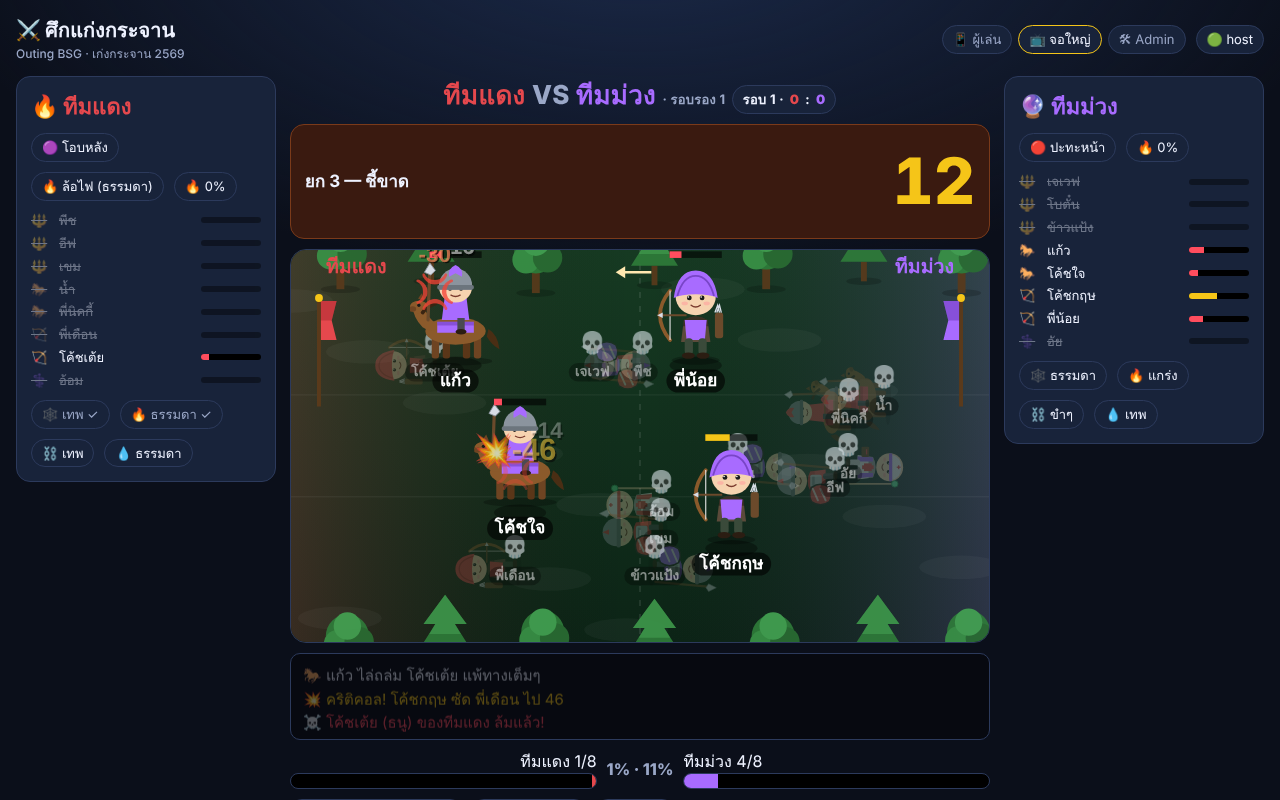
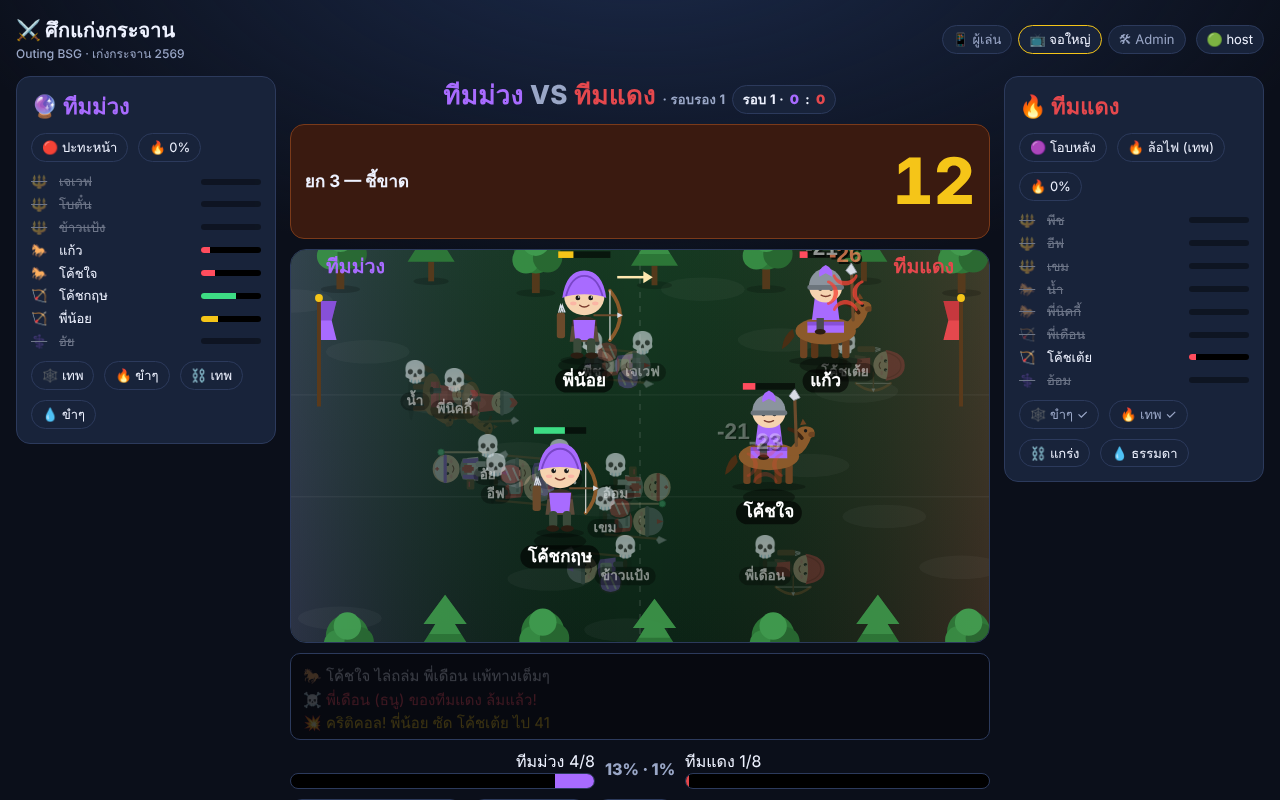
รอบตัดสิน: ไอเทมเทพพิเศษทีมละ 1 ชิ้น
Claude-Session: https://claude.ai/code/session_01JbJWCdY4QKd2woKbG6bJFF

diff --git a/js/app.js b/js/app.js
@@ -141,11 +141,12 @@
     const S = settings(); round = round || 1; wins = wins || { a: 0, b: 0 };
     const seed = 'm' + id + '-r' + round + '-' + Math.floor(Math.random() * 1e9).toString(36);
     const upd = {}; upd[a + '/plan'] = 'front'; upd[a + '/item'] = null; upd[b + '/plan'] = 'front'; upd[b + '/item'] = null;
-    if (round === 1) { upd[a + '/itemsUsed'] = null; upd[b + '/itemsUsed'] = null; }
+    if (round === 1) { upd[a + '/itemsUsed'] = null; upd[b + '/itemsUsed'] = null; upd[a + '/bonusUsed'] = null; upd[b + '/bonusUsed'] = null; }
     await R('teams').update(upd);
     await R('match').set({ id, a, b, round, wins, stage: 'plan', stageStart: now(), stageEnds: now() + S.tPlan * 1000, seed, waveInputs: null, taps: null, result: null });
     await R('game').update({ phase: 'battle' });
   }
+  function isDecider(m) { const S = settings(); return !!m && (m.round || 1) >= 2 * S.roundsToWin - 1; }
   function matchDecided(m) { const S = settings(); return m && m.wins && (m.wins.a >= S.roundsToWin || m.wins.b >= S.roundsToWin); }
   async function nextRound() {
     const m = st.match; if (!m || m.stage !== 'result' || matchDecided(m)) return;
@@ -166,7 +167,9 @@
         const team = teamOfSide(side); const snap = snapshotSide(team);
         const t = st.teams[team] || {};
         let item = null;
-        if (t.item && t.item.id) {
+        if (t.item && t.item.id && t.item.bonus) {
+          if (isDecider(m) && !t.bonusUsed && D.ITEMS[t.item.id]) { item = { id: t.item.id, tier: 0 }; upd['__teams/' + team + '/bonusUsed'] = true; }
+        } else if (t.item && t.item.id) {
           const its = teamItems(team).find((x) => x.id === t.item.id);
           if (its && !its.used && !its.locked) { item = { id: its.id, tier: its.tier }; upd['__teams/' + team + '/itemsUsed/' + its.id] = true; }
         }
@@ -283,7 +286,7 @@
     return h;
   }
   function itemsHtml(team, interactive) {
-    const sel = st.teams[team] && st.teams[team].item && st.teams[team].item.id;
+    const sel = st.teams[team] && st.teams[team].item && !st.teams[team].item.bonus && st.teams[team].item.id;
     return `<div class="item-grid">` + teamItems(team).map((it) => {
       const I = D.ITEMS[it.id]; const tierTxt = it.locked ? 'รอผลกิจกรรม' : `ระดับ${D.TIER_NAMES[it.tier]} · ${I.tiers[it.tier]}${I.unit}${I.counts ? ' ' + I.counts[it.tier] + ' ตัว' : ''}${I.revive && it.tier === 0 ? ' + ชุบชีวิต 1 คน' : ''}`;
       const cls = `item-card tier-${it.tier} ${it.used ? 'used' : ''} ${it.locked ? 'locked' : ''} ${sel === it.id ? 'sel' : ''}`;
@@ -302,7 +305,7 @@
       <h3>อาชีพแพ้ทางเป็นวงกลม</h3><div class="counter-table"><div>🐎 ม้า<br><b>ชนะ</b> ธนู 🏹</div><div>🔱 หอก<br><b>ชนะ</b> ม้า 🐎</div><div>🏹 ธนู<br><b>ชนะ</b> หอก 🔱</div></div>
       <div class="small muted">ตีคู่ที่ชนะทาง ×${S.counterWin} / ตีคู่ที่แพ้ทาง ×${S.counterLose} · ⚕ หมอไม่โจมตี ฮีลเพื่อนใกล้ๆ ทุก ${S.healEvery} วิ (ทีมละไม่เกิน ${S.medicMax}) · ม้าที่วิ่งมาไกลพุ่งชนครั้งแรกแรง ×${S.cavCharge}</div>
       <h3>ตำแหน่งมีผล</h3><div class="small">ทั้ง 8 คนออกพร้อมกันตั้งแต่ยกแรก มี 9 ช่อง: <b>แถวหน้า</b> ปะทะก่อน · <b>แถวหลัง</b> ปลอดภัยกว่า (เหมาะกับธนู/หมอ) แต่ม้าศัตรูที่เลือก "โอบหลัง" จะพุ่งมาหา · เลนบน/กลาง/ล่าง: หอกตีคนที่ใกล้ในเลนตัวเองก่อน · ยก 2 ดาเมจ ×${S.waveMult[1]} ยก 3 ×${S.waveMult[2]}</div>
-      <h3>พักยก (${S.tPause} วิ) ทุกคนที่รอดกลับเข้าตำแหน่ง เลือดเท่าเดิม ทำได้ 4 อย่าง</h3><ol><li>จัดตำแหน่งใหม่ <b>ทั้งทัพ</b> (คนที่ล้มแล้วไม่ฟื้น) เช่น เอาหอกไปดักเลนที่ม้าเขามา</li><li>กัปตันเลือก <b>แผนเข้าตี</b>: ปะทะหน้า / เข้าด้านข้าง / โอบหลัง</li><li>กัปตันเลือก <b>ไอเทม</b> 1 ชิ้น (ใช้ได้ทุกยกรวมถึงก่อนยก 1 · 4 ชิ้น แต่ละชิ้นใช้ได้ครั้งเดียวตลอดคู่ ทีมที่เก็บไว้ถึงรอบตัดสินได้เปรียบ)</li><li><b>ทุกคนรัวกด</b> เติมขวัญกำลังใจ → ยกถัดไป <b>ฟื้นเลือดทุกคนสูงสุด +${Math.round((S.moraleHeal || 0) * 100)}%</b> และตีแรงขึ้นสูงสุด +${Math.round(S.moraleMax * 100)}% (กดครบ ${S.tapsPerPersonFull} ครั้ง/คน = เต็มหลอด)</li></ol>
+      <h3>พักยก (${S.tPause} วิ) ทุกคนที่รอดกลับเข้าตำแหน่ง เลือดเท่าเดิม ทำได้ 4 อย่าง</h3><ol><li>จัดตำแหน่งใหม่ <b>ทั้งทัพ</b> (คนที่ล้มแล้วไม่ฟื้น) เช่น เอาหอกไปดักเลนที่ม้าเขามา</li><li>กัปตันเลือก <b>แผนเข้าตี</b>: ปะทะหน้า / เข้าด้านข้าง / โอบหลัง</li><li>กัปตันเลือก <b>ไอเทม</b> 1 ชิ้น (ใช้ได้ทุกยกรวมถึงก่อนยก 1 · 4 ชิ้น แต่ละชิ้นใช้ได้ครั้งเดียวตลอดคู่ ทีมที่เก็บไว้ถึงรอบตัดสินได้เปรียบ) · <b>ถ้าเสมอ 1–1 รอบตัดสินแต่ละทีมได้เลือกไอเทมเทพเพิ่ม 1 ชิ้น</b></li><li><b>ทุกคนรัวกด</b> เติมขวัญกำลังใจ → ยกถัดไป <b>ฟื้นเลือดทุกคนสูงสุด +${Math.round((S.moraleHeal || 0) * 100)}%</b> และตีแรงขึ้นสูงสุด +${Math.round(S.moraleMax * 100)}% (กดครบ ${S.tapsPerPersonFull} ครั้ง/คน = เต็มหลอด)</li></ol>
       <h3>ไอเทมจากกิจกรรม outing</h3><div class="small">ทุกทีมได้ครบ 4 ชิ้น แต่ <b>ระดับต่างกันตามอันดับ</b>: ที่ 1 = เทพ, ที่ 2 = แกร่ง, ที่ 3 = ธรรมดา, ที่ 4 = ขำๆ</div>
       ${Object.values(D.ITEMS).map((I) => `<div class="small">${I.emoji} <b>${I.name}</b> — ${I.desc}: ${I.tiers.map((v, i) => D.TIER_NAMES[i] + ' ' + v + I.unit + (I.counts ? ' ' + I.counts[i] + ' ตัว' : '') + (I.revive && i === 0 ? '+ชุบ' : '')).join(' / ')}</div>`).join('')}
       <h3>ตัดสินผล</h3><div class="small">ฝ่ายไหนล้มหมดก่อนแพ้ทันที → ครบ 3 ระลอกวัด % เลือดรวม → เท่ากันวัดยอดรัวกด · ดาเมจมีสุ่ม ±15% และคริติคอล 10% ×2 เพื่อให้ลุ้น แต่การวางแผนคือตัวตัดสินหลัก</div>
@@ -425,6 +428,11 @@
       h += `<div class="panel"><h3>ทัพศัตรู (${D.TEAMS[enemy].name}) ตอนนี้</h3>${boardHtml(enemy, {})}</div>`;
     }
     h += `<div class="panel"><h2>แผนเข้าตียก ${w + 1} ${isCaptain() ? '' : '<span class="small muted">(กัปตันเลือก)</span>'}</h2>${plansHtml(team, isCaptain())}</div>`;
+    if (isDecider(m)) {
+      const t = st.teams[team] || {}; const selB = t.item && t.item.bonus ? t.item.id : null;
+      h += `<div class="panel"><h2>⭐ รอบตัดสิน: ไอเทมเทพพิเศษ ${isCaptain() ? '' : '<span class="small muted">(กัปตันเลือก)</span>'}</h2><div class="hint">${t.bonusUsed ? 'ใช้สิทธิ์ไปแล้ว' : 'เลือกได้ 1 ชิ้น ระดับเทพ ใช้ได้ครั้งเดียวในรอบนี้ (เพิ่มจากไอเทมที่เหลือ)'}</div><div class="item-grid">` +
+        Object.values(D.ITEMS).map((I) => `<div class="item-card tier-0 ${t.bonusUsed ? 'used' : ''} ${selB === I.id ? 'sel' : ''}" ${isCaptain() && !t.bonusUsed ? `data-act="bonus-item" data-item="${I.id}"` : ''}><div class="em">${I.emoji}</div><div><div class="nm">${I.name}</div><div class="tier">ระดับเทพ · ${I.tiers[0]}${I.unit}${I.counts ? ' ' + I.counts[0] + ' ตัว' : ''}${I.revive ? ' + ชุบชีวิต' : ''}</div></div></div>`).join('') + `</div></div>`;
+    }
     h += `<div class="panel"><h2>ใช้ไอเทมยกนี้ ${isCaptain() ? '' : '<span class="small muted">(กัปตันเลือก)</span>'}</h2><div class="hint">ยกละ 1 ชิ้น ใช้ได้ทุกยกรวมถึงยกแรก (คู่แข่งไม่เห็นจนกว่ายกจะเริ่ม) แต่ละชิ้นใช้ได้ครั้งเดียวตลอดคู่นี้ทุกรอบรวมกัน · แตะซ้ำเพื่อยกเลิก</div>${itemsHtml(team, isCaptain())}</div>`;
     h += `<div class="panel sticky-bottom"><h2>🔥 รัวกด = ฟื้นเลือด + ขวัญกำลังใจ</h2>` + tapHtml(side) + `</div>`;
     return h;
@@ -621,6 +629,7 @@
       }
       else if (act === 'plan') { const p = myPlayer(); if (!p || !(isCaptain() || isAdmin)) return; await R('teams/' + p.team).update({ plan: el.dataset.plan }); }
       else if (act === 'item') { const p = myPlayer(); if (!p || !(isCaptain() || isAdmin)) return; const cur = st.teams[p.team] && st.teams[p.team].item; await R('teams/' + p.team).update({ item: cur && cur.id === el.dataset.item ? null : { id: el.dataset.item } }); }
+      else if (act === 'bonus-item') { const p = myPlayer(); if (!p || !(isCaptain() || isAdmin)) return; const cur = st.teams[p.team] && st.teams[p.team].item; await R('teams/' + p.team).update({ item: cur && cur.bonus && cur.id === el.dataset.item ? null : { id: el.dataset.item, tier: 0, bonus: true } }); }
       else if (act === 'tap') { tap(); }
       else if (act === 'practice-start') { practiceStart(); }
       else if (act === 'practice-stop') { ui.practice = { enemy: ui.practice.enemy, plan: ui.practice.plan }; if (pRenderer) { pRenderer.stop(); pRenderer = null; } render(); }
@@ -644,7 +653,7 @@
       else if (act === 'extend') { await R('match').update({ stageEnds: st.match.stageEnds + 15000 }); }
       else if (act === 'pause') { await togglePause(); }
       else if (act === 'move-mode') { await R('game').update({ moveMode: el.dataset.mode }); toast('ตั้งค่าแล้ว'); }
-      else if (act === 'restart-match') { if (!confirmUi(el, 'เริ่มศึกนี้ใหม่ทั้งหมด? กดอีกครั้ง')) return; const m = st.match; const upd = {}; for (const t of [m.a, m.b]) upd[t + '/itemsUsed'] = null; await R('teams').update(upd); await startMatch(m.id, m.a, m.b, 1, { a: 0, b: 0 }); }
+      else if (act === 'restart-match') { if (!confirmUi(el, 'เริ่มศึกนี้ใหม่ทั้งหมด? กดอีกครั้ง')) return; const m = st.match; const upd = {}; for (const t of [m.a, m.b]) { upd[t + '/itemsUsed'] = null; upd[t + '/bonusUsed'] = null; } await R('teams').update(upd); await startMatch(m.id, m.a, m.b, 1, { a: 0, b: 0 }); }
       else if (act === 'reset-match') { if (!confirmUi(el, 'ล้างศึกและสาย? กดอีกครั้ง')) return; await R('match').set(null); await R('bracket').set(null); const upd = {}; for (const t of D.TEAM_ORDER) { upd[t + '/itemsUsed'] = null; upd[t + '/item'] = null; } await R('teams').update(upd); await R('game').update({ phase: 'lobby' }); }
       else if (act === 'reset-all') { if (!confirmUi(el, 'ล้างทุกอย่างจริงๆ? กดอีกครั้ง')) return; await R('').set({ game: { phase: 'lobby' } }); toast('ล้างแล้ว'); }
       else if (act === 'fill-demo') { await fillDemo(); }
